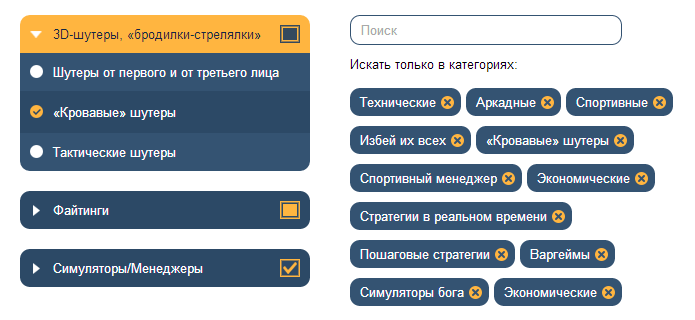
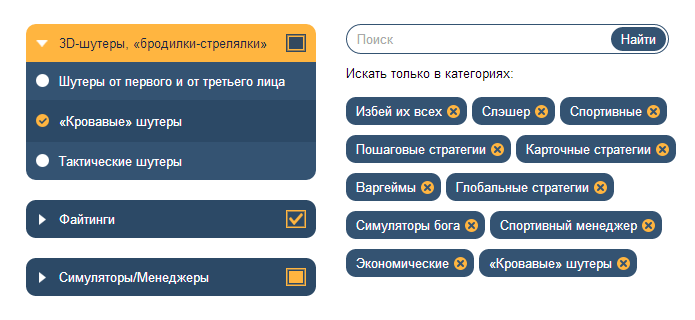
upd am

diff --git a/am/index.html b/am/index.html
@@ -36,8 +36,8 @@
                     <i class="ulist-icon-control"></i>
                 </div>
                 <ul class="ulist-list">
-                    <li class="ulist-item"><i></i>Избей их всех</li>
-                    <li class="ulist-item"><i></i>Слэшер</li>
+                    <li class="ulist-item ulist-item-active"><i></i>Избей их всех</li>
+                    <li class="ulist-item ulist-item-active"><i></i>Слэшер</li>
                 </ul>
             </div>
 
@@ -50,8 +50,8 @@
                 <ul class="ulist-list">
                     <li class="ulist-item"><i></i>Технические</li>
                     <li class="ulist-item"><i></i>Аркадные</li>
-                    <li class="ulist-item"><i></i>Спортивные</li>
-                    <li class="ulist-item"><i></i>Спортивный менеджер</li>
+                    <li class="ulist-item ulist-item-active"><i></i>Спортивные</li>
+                    <li class="ulist-item ulist-item-active"><i></i>Спортивный менеджер</li>
                     <li class="ulist-item"><i></i>Экономические</li>
                 </ul>
             </div>
@@ -87,7 +87,10 @@
         </div>
 
         <div class="jform">
-            <input type="text" class="jform-field" placeholder="Поиск">
+            <div class="jform-field-box">
+                <input type="text" class="jform-field" placeholder="Поиск">
+                <span class="jform-btn">Найти</span>
+            </div>
             <p class="jform-title">Искать только в категориях:</p>
             <div class="jform-inner"></div>
         </div>
@@ -99,7 +102,7 @@
     <script src="am.js"></script>
     <script>
         $( document ).ready( function() {
-            var ulist, ulistApi, field, fieldApi, ulistProps;
+            var ulist, ulistApi, field, fieldApi, ulistProps, findBtn;
 
             ulistProps = {
                 fixBoxWidth: true,
@@ -109,10 +112,12 @@
 
             ulist    = $( '.ulist-box' ).Ulist( ulistProps );
             field    = $( '.jform-field' ).iHolder();
+            findBtn  = $( '.jform-btn');
             ulistApi = ulist.data( 'ulist' );
             fieldApi = field.data( 'iHolder' );
 
             field.keyup( onFieldKeyup );
+            findBtn.click( onFindBtnClick );
 
             if ( !fieldApi.test() ) {
                 $( 'body' ).addClass( 'css3-no-placeholder' );
@@ -120,15 +125,23 @@
                 $( 'body' ).addClass( 'css3-placeholder' );
             }
 
+            function onFindBtnClick() {
+                trySend();
+            }
+
             function onFieldKeyup( e ) {
                 if ( e.keyCode === 13 ) {
-                    var params = ulistApi.getParams(),
-                        value = $.trim( field.val() );
-
-                    if ( value && value !== fieldApi.placeholder ) {
-                        sendXhr( value, params );
-                    }
+                    trySend();
                 }   
+            }
+
+            function trySend() {
+                var params = ulistApi.getParams(),
+                    value = $.trim( field.val() );
+
+                if ( value && value !== fieldApi.placeholder ) {
+                    sendXhr( value, params );
+                }    
             }
 
             function sendXhr( value, params ) {

diff --git a/am/am.js b/am/am.js
@@ -21,7 +21,18 @@
             setElWidth( elWidth );
             setLastItemCls();
             setItemsId();
-            bindEvents();            
+            bindEvents();
+            setControlState();            
+        }
+
+        function check() {
+            $items.filter( '.' + activeItemCls ).each( function() {
+                var item = $( this ),
+                    text = item.text(),
+                    id   = item.data( 'id' );
+
+                $event.trigger( 'select', [ id, text ] );
+            });
         }
 
         function cacheObjects() {
@@ -60,7 +71,7 @@
                 $control.addClass( fullControlState );
             }
 
-            e.stopPropagation();
+            e && e.stopPropagation();
         }
 
         function setControlState() {
@@ -125,7 +136,8 @@
             on: on,
             elWidth: elWidth,
             destroy: destroy,
-            setElWidth: setElWidth
+            setElWidth: setElWidth,
+            check: check
         }
     }
 
@@ -152,6 +164,7 @@
             entity = Ulist( this );
             entities.push( entity );
             bindEntityEvents( entity );
+            entity.check();
         }
 
         function bindEntityEvents( entity ) {

diff --git a/am/am.css b/am/am.css
@@ -174,15 +174,39 @@ input, textarea {
     padding-left: 50px;
 }
 
+.jform-field-box {
+    display: inline-block;
+    border: 1px solid #345372;
+
+    -webkit-border-radius: 30px;
+       -moz-border-radius: 30px;
+            border-radius: 30px;
+}
+
 .jform-field {
     width: 250px;
-    padding: 5px 10px;
-    border: 1px solid #345372;
     outline: none;
+    padding: 5px 0 5px 10px;
+    border: none;
+    background: none;
+}
 
-    -webkit-border-radius: 10px;
-       -moz-border-radius: 10px;
-            border-radius: 10px;
+.jform-btn {
+    display: inline-block;
+    background: #345372;
+    color: white;
+    line-height: 24px;
+    padding: 0 10px;
+    cursor: pointer;
+    margin-right: 2px;
+
+    -webkit-border-radius: 30px;
+       -moz-border-radius: 30px;
+            border-radius: 30px;
+}
+
+.jform-btn:hover {
+    background: #2C4966;
 }
 
 .css3-no-placeholder .jform-field {
